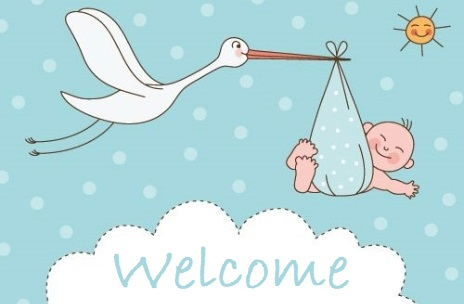
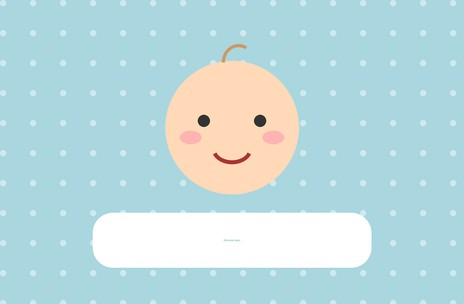
Assets: replace third-party artwork with original illustrations (copyright)

diff --git a/frontend/src/assets/README.md b/frontend/src/assets/README.md
@@ -1,0 +1,5 @@
+# Image assets
+
+The illustrations in this folder (welcome cards, logo, empty-state, towel and product placeholders) are original, simple vector-style drawings generated for this project. No third-party artwork is used and no attribution is required.
+
+The Code Institute screenshots (files starting with "test", "sign", "database", etc.) show the running app during 2023 development and contain only test data.
